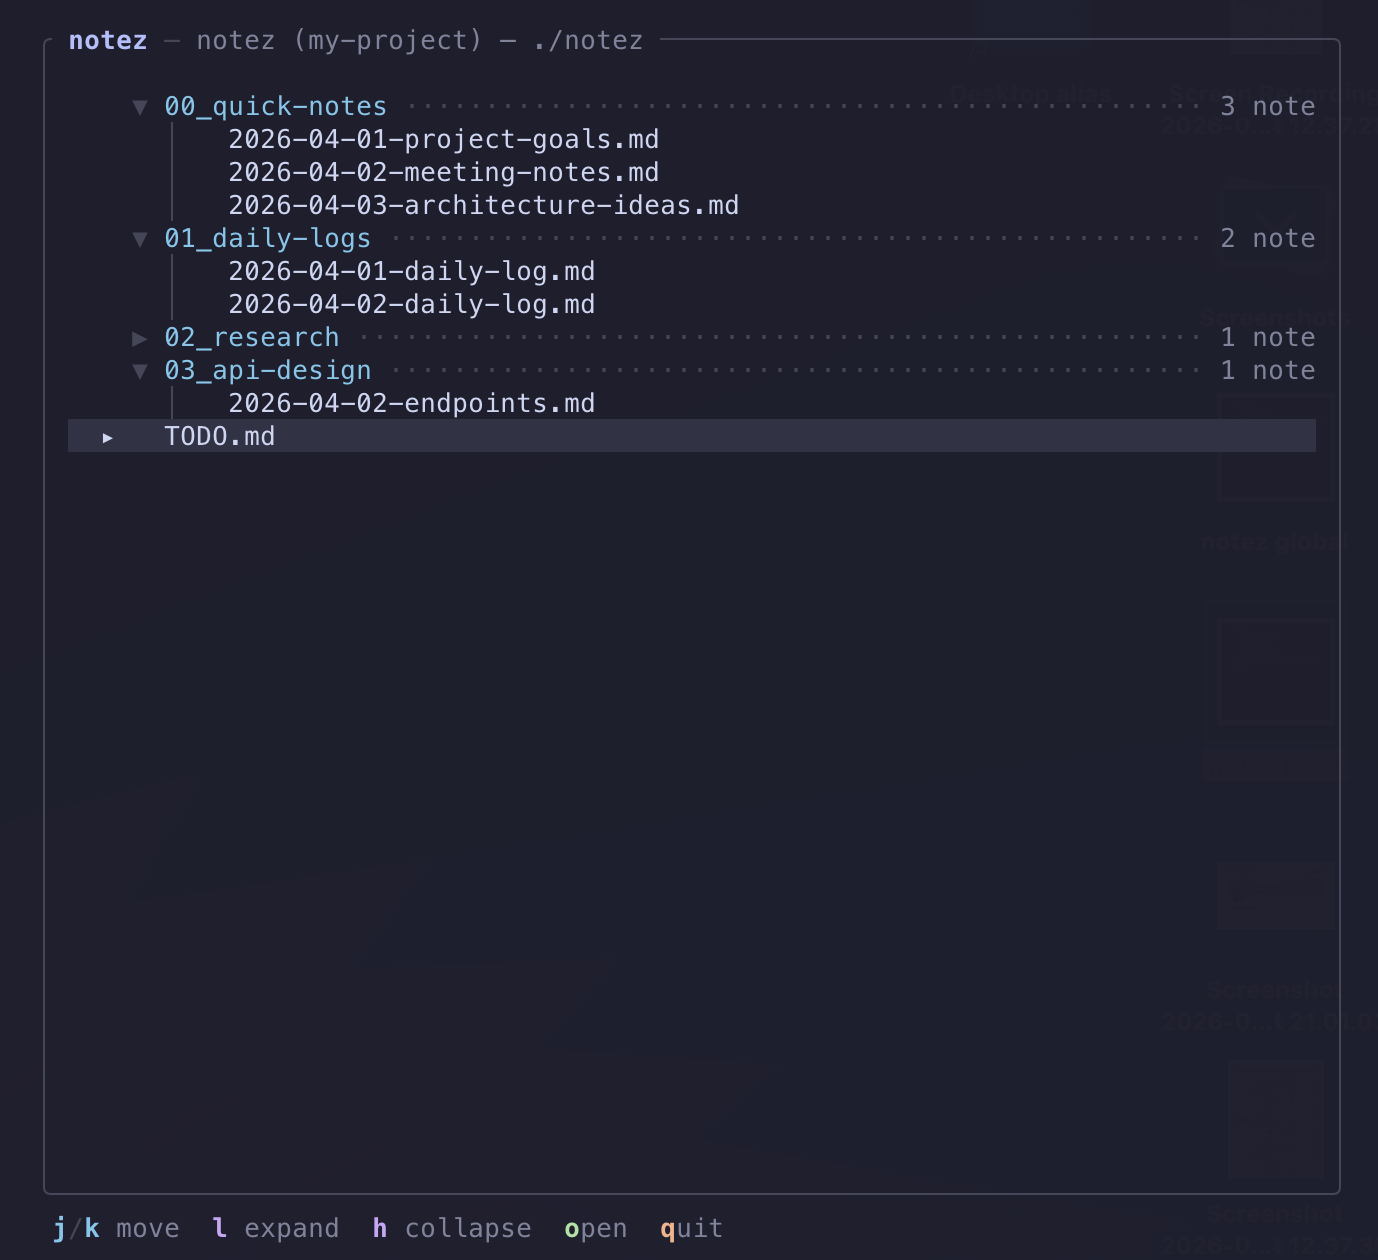
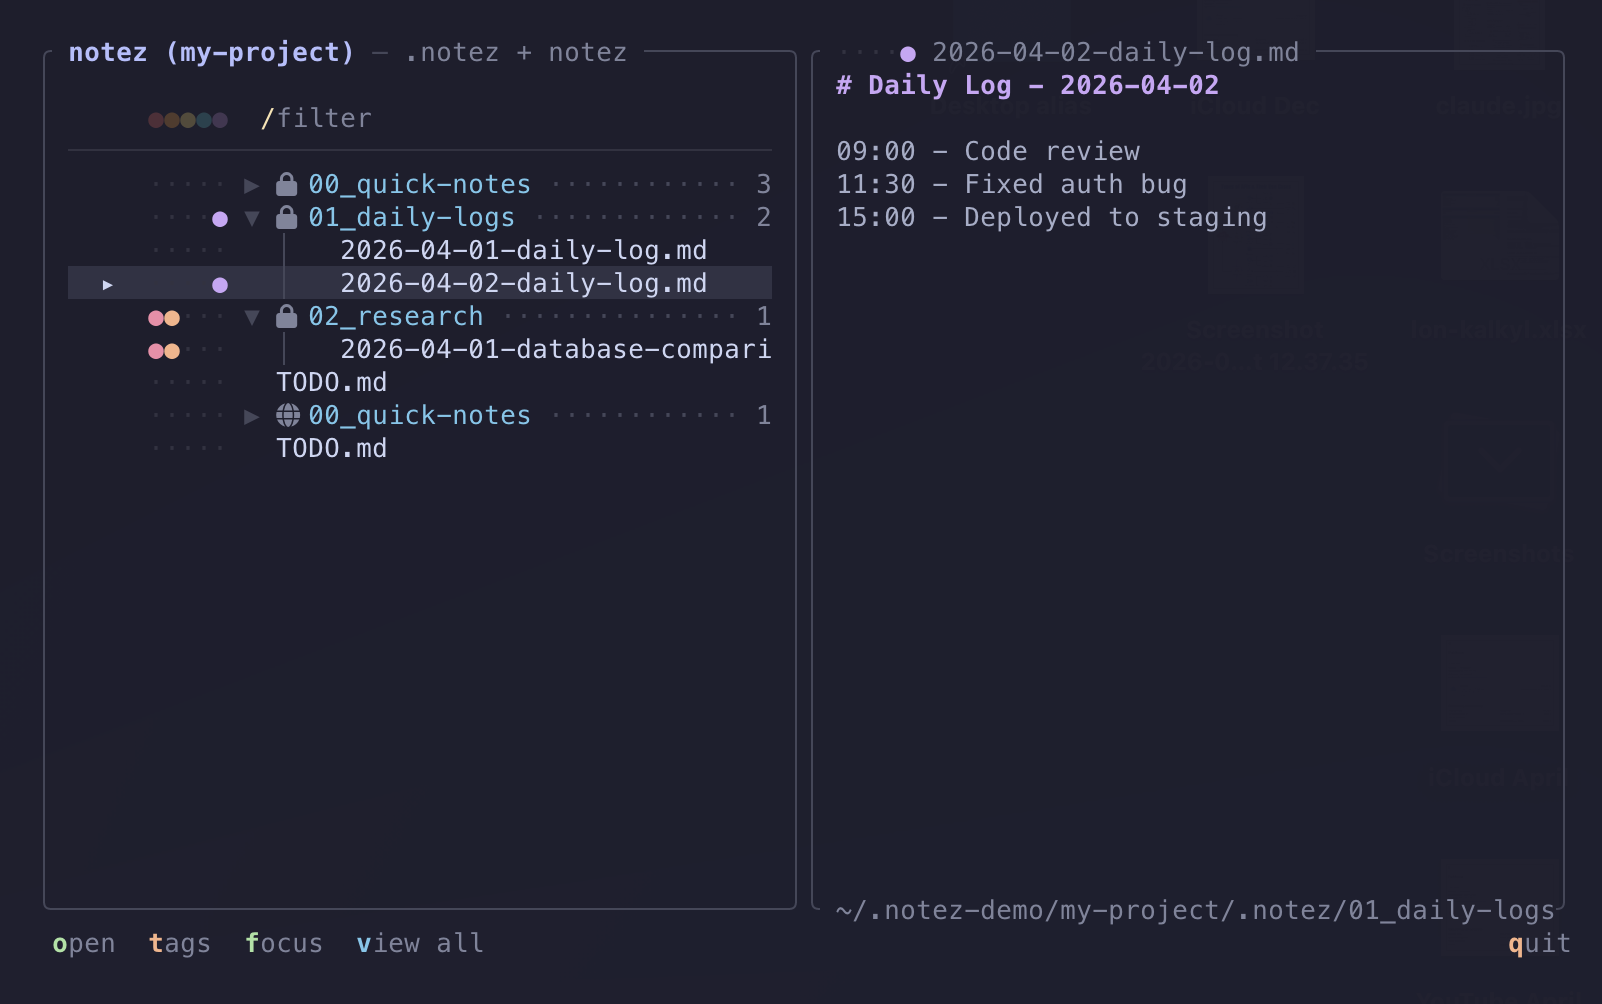
feat(notez): add notez-global screenshot, refresh notez-local

diff --git a/portfolio_FE/src/data/projects.ts b/portfolio_FE/src/data/projects.ts
@@ -12,7 +12,7 @@ export const projects = [
     description:
       "Local-first CLI note-taking tool. Notes live in your project directory, mirrored to a home folder via symlinks. Interactive todo manager with subtasks, tree navigator with vim keys, daily logs — all in one Rust binary.",
     tags: ["Rust", "ratatui", "CLI"],
-    image: ["/pictures/notez-local.png", "/pictures/todoz-local.png", "/pictures/todoz-global.png"],
+    image: ["/pictures/notez-local.png", "/pictures/notez-global.png", "/pictures/todoz-local.png", "/pictures/todoz-global.png"],
     link: "https://github.com/Gaurgle/notez-cli",
   },
   {
